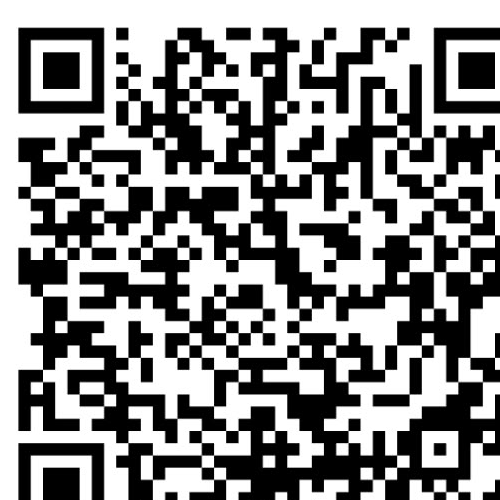
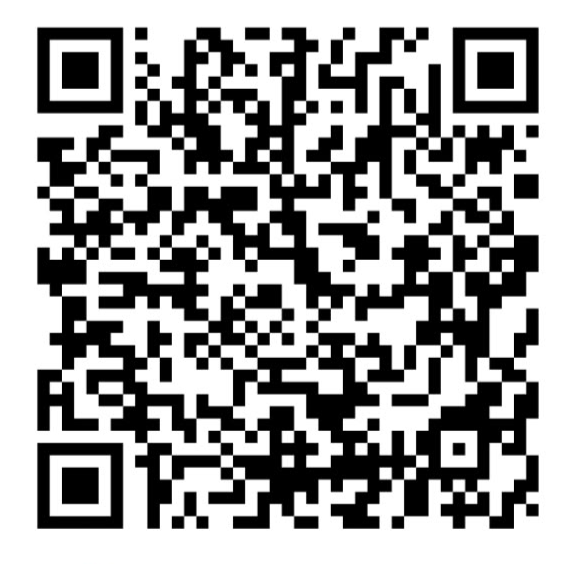
Donate QR swapped to new image

diff --git a/frontend/components/donate-coffee.tsx b/frontend/components/donate-coffee.tsx
@@ -9,7 +9,7 @@ import { useEffect, useState } from 'react';
 import { cn } from '@/lib/utils/cn';
 
 /** Payment QR image served from `frontend/public`. */
-export const DONATE_QR_SRC: string | null = '/donate-qr.jpeg';
+export const DONATE_QR_SRC: string | null = '/donate-qr.png';
 
 /** Deterministic dummy QR-lookalike (NOT scannable) for layout review. */
 function DummyQr({ size = 168 }: { size?: number }) {
